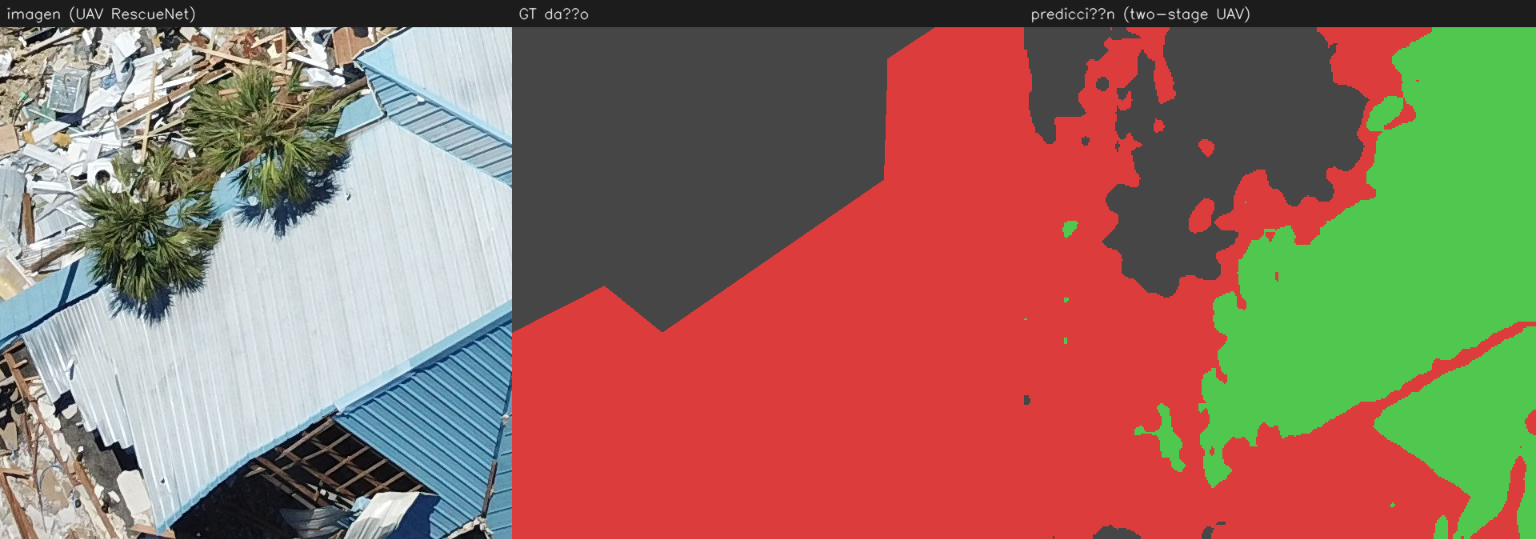
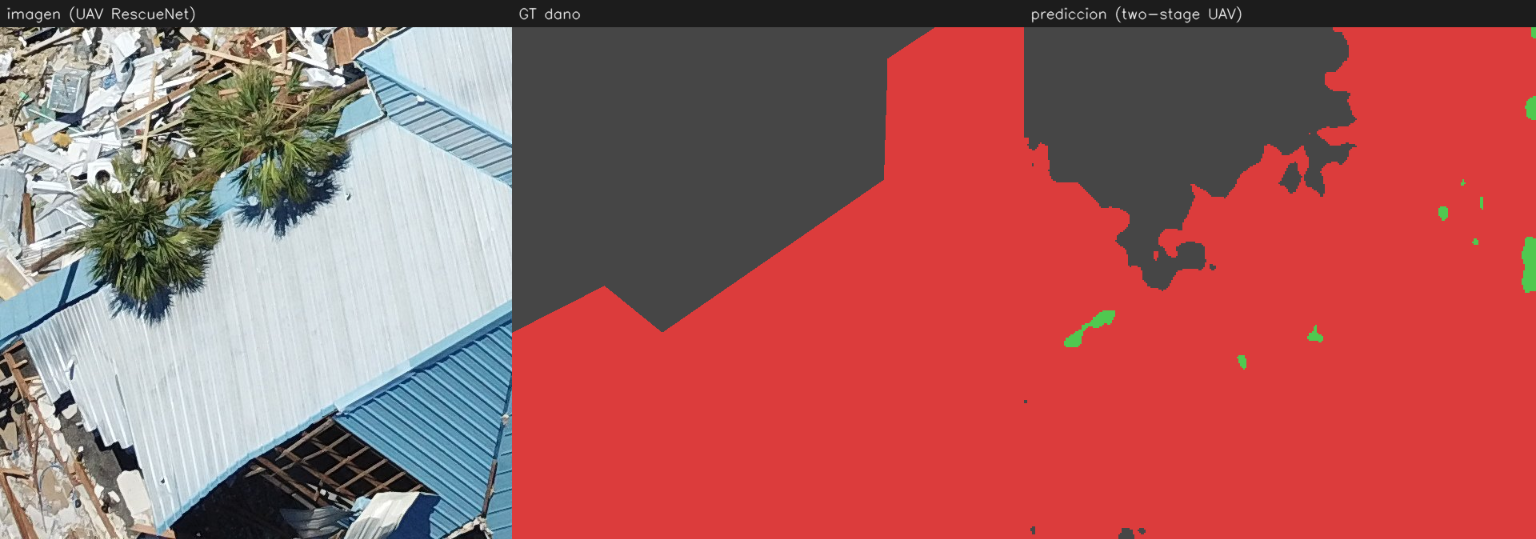
Evidencia 01-06 regenerada con los modelos actuales (dano ep6) + labels ASCII
- generate_evidence.py: etiquetas ASCII (la fuente bitmap de PIL no soporta
  acentos y salian '?'); 02_dano_gt_vs_pred.png ahora con el modelo adoptado.

diff --git a/cansat_seg_poc/tools/generate_evidence.py b/cansat_seg_poc/tools/generate_evidence.py
@@ -77,7 +77,7 @@ def ev_terreno():
     gt = cv2.imread(str(msk_p), cv2.IMREAD_GRAYSCALE)
     pred = predecir("outputs/cansat_seg_terrain_v2.onnx", img)
     fila([("imagen", img), ("ground truth", colorizar(gt, PAL_TERRENO)),
-          ("predicción (v2@320)", colorizar(pred, PAL_TERRENO))],
+          ("prediccion (v2@320)", colorizar(pred, PAL_TERRENO))],
          OUT / "01_terreno_gt_vs_pred.png")
 
 
@@ -88,8 +88,8 @@ def ev_dano():
     img = cv2.imread(str(ROOT / row["image"]))
     gt = cv2.imread(str(ROOT / row["mask"]), cv2.IMREAD_GRAYSCALE)
     pred = predecir("outputs/cansat_damage_v3_bal_ep6.onnx", img)
-    fila([("imagen (UAV RescueNet)", img), ("GT daño", colorizar(gt, PAL_DANO)),
-          ("predicción (two-stage UAV)", colorizar(pred, PAL_DANO))],
+    fila([("imagen (UAV RescueNet)", img), ("GT dano", colorizar(gt, PAL_DANO)),
+          ("prediccion (two-stage UAV)", colorizar(pred, PAL_DANO))],
          OUT / "02_dano_gt_vs_pred.png", escala=0.8)
 
 
@@ -105,7 +105,7 @@ def ev_flood():
                         interpolation=cv2.INTER_NEAREST)
     pred = predecir("outputs/cansat_flood_specialist_224.onnx", img)
     fila([("imagen (FloodNet UAV)", img), ("GT", colorizar(gt, PAL_FLOOD)),
-          ("predicción (flood 224)", colorizar(pred, PAL_FLOOD))],
+          ("prediccion (flood 224)", colorizar(pred, PAL_FLOOD))],
          OUT / "03_flood_gt_vs_pred.png")
 
 
@@ -117,7 +117,7 @@ def ev_fuego():
     gt = cv2.imread(str(ROOT / row["mask"]), cv2.IMREAD_GRAYSCALE)
     pred = predecir("outputs/cansat_fire_smoke.onnx", img)
     fila([("imagen (FLAME UAV)", img), ("GT fuego/humo", colorizar(gt, PAL_FUEGO)),
-          ("predicción", colorizar(pred, PAL_FUEGO))],
+          ("prediccion", colorizar(pred, PAL_FUEGO))],
          OUT / "04_fuego_humo_gt_vs_pred.png")
 
 
@@ -154,7 +154,7 @@ def ev_severidad():
     fila([("imagen (UAV RescueNet)", img),
           ("GT severidad (menor/amarillo · mayor/naranja · destruido/rojo)",
            colorizar(gt, PAL_SEV)),
-          ("predicción (cansat_severity)", colorizar(pred, PAL_SEV))],
+          ("prediccion (cansat_severity)", colorizar(pred, PAL_SEV))],
          OUT / "06_severidad_gt_vs_pred.png", escala=0.8)
 
 
